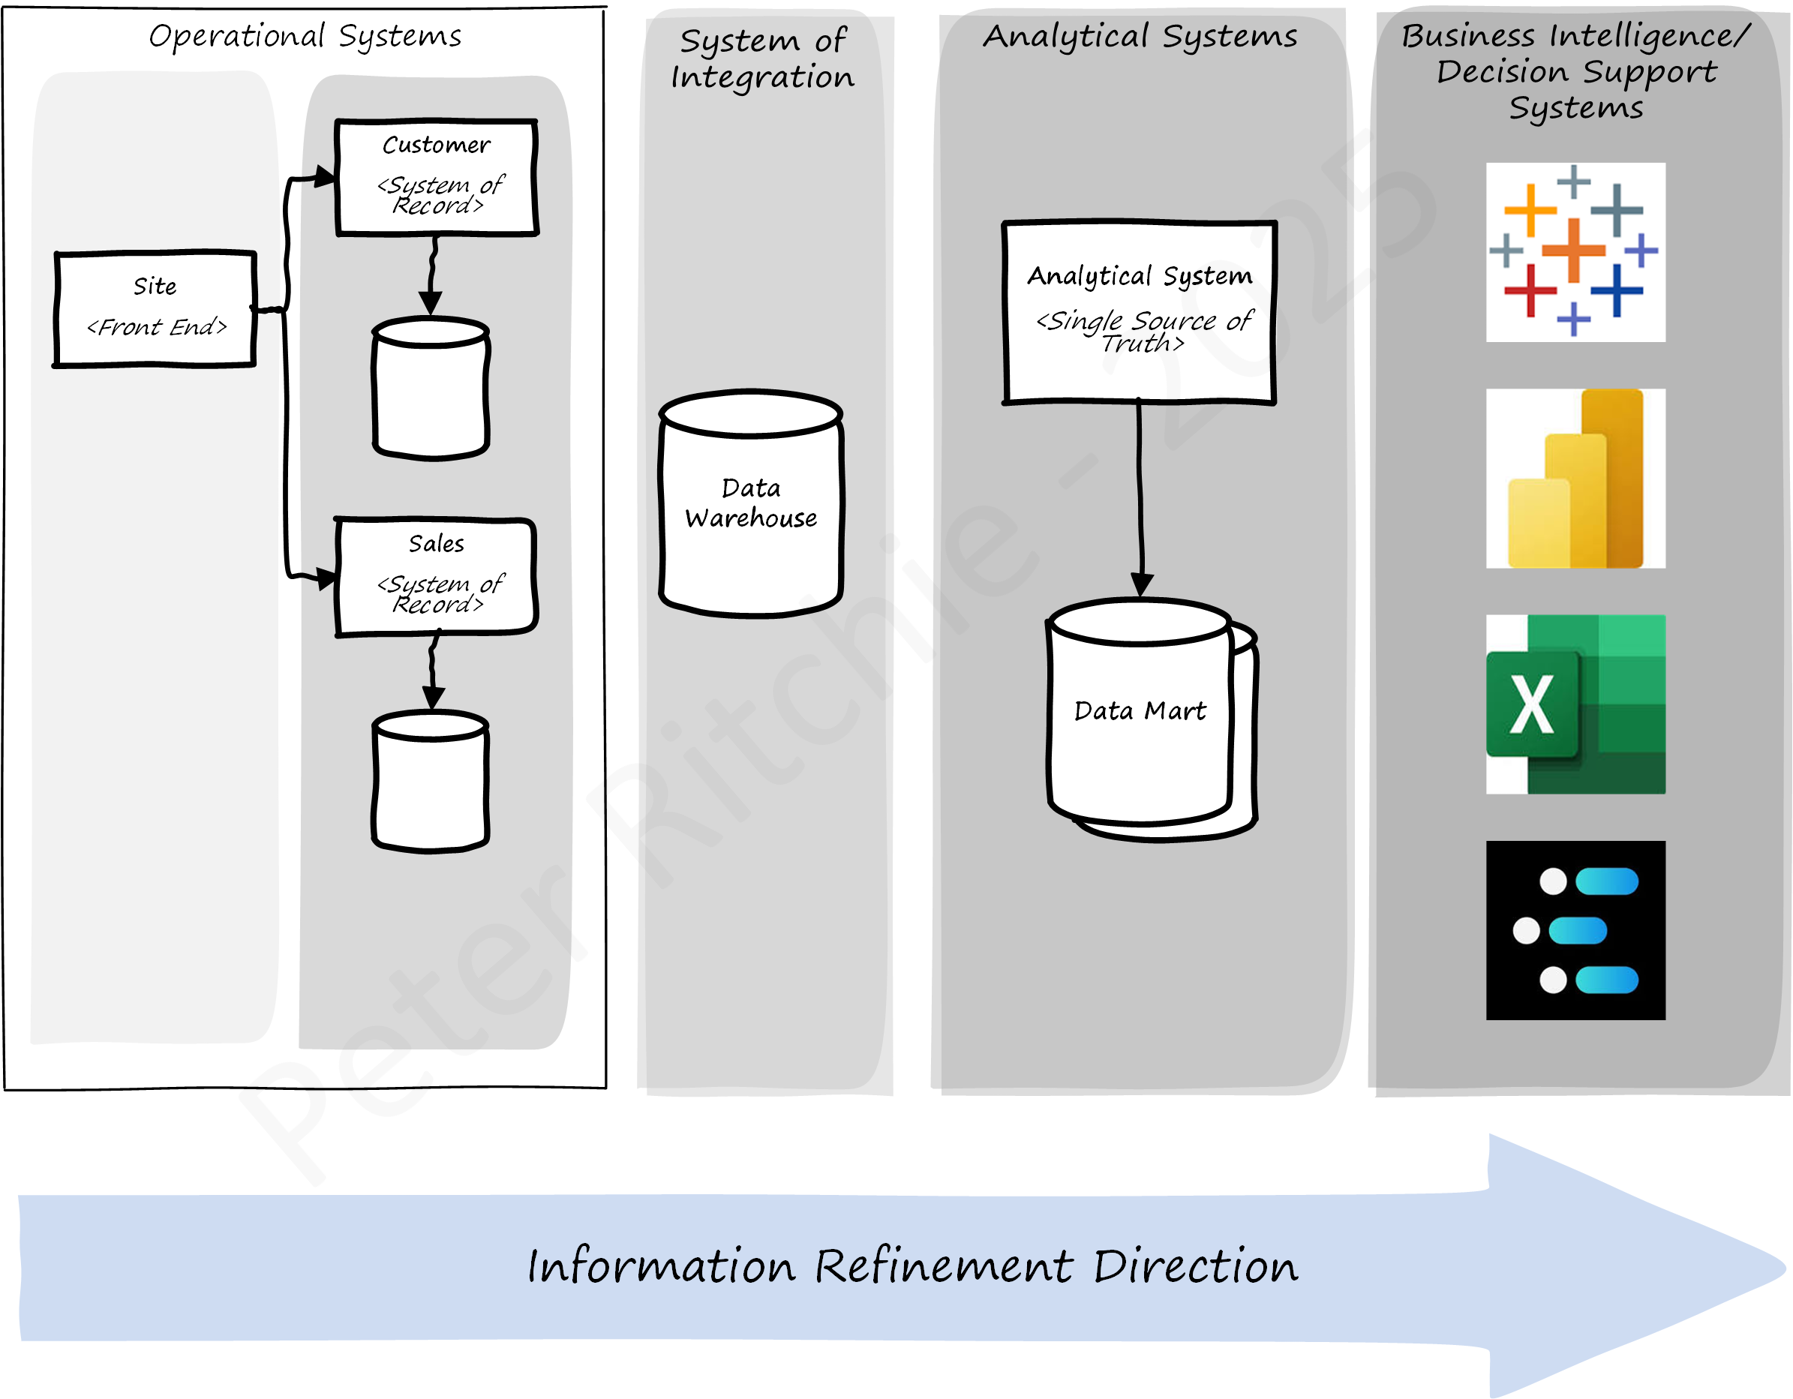
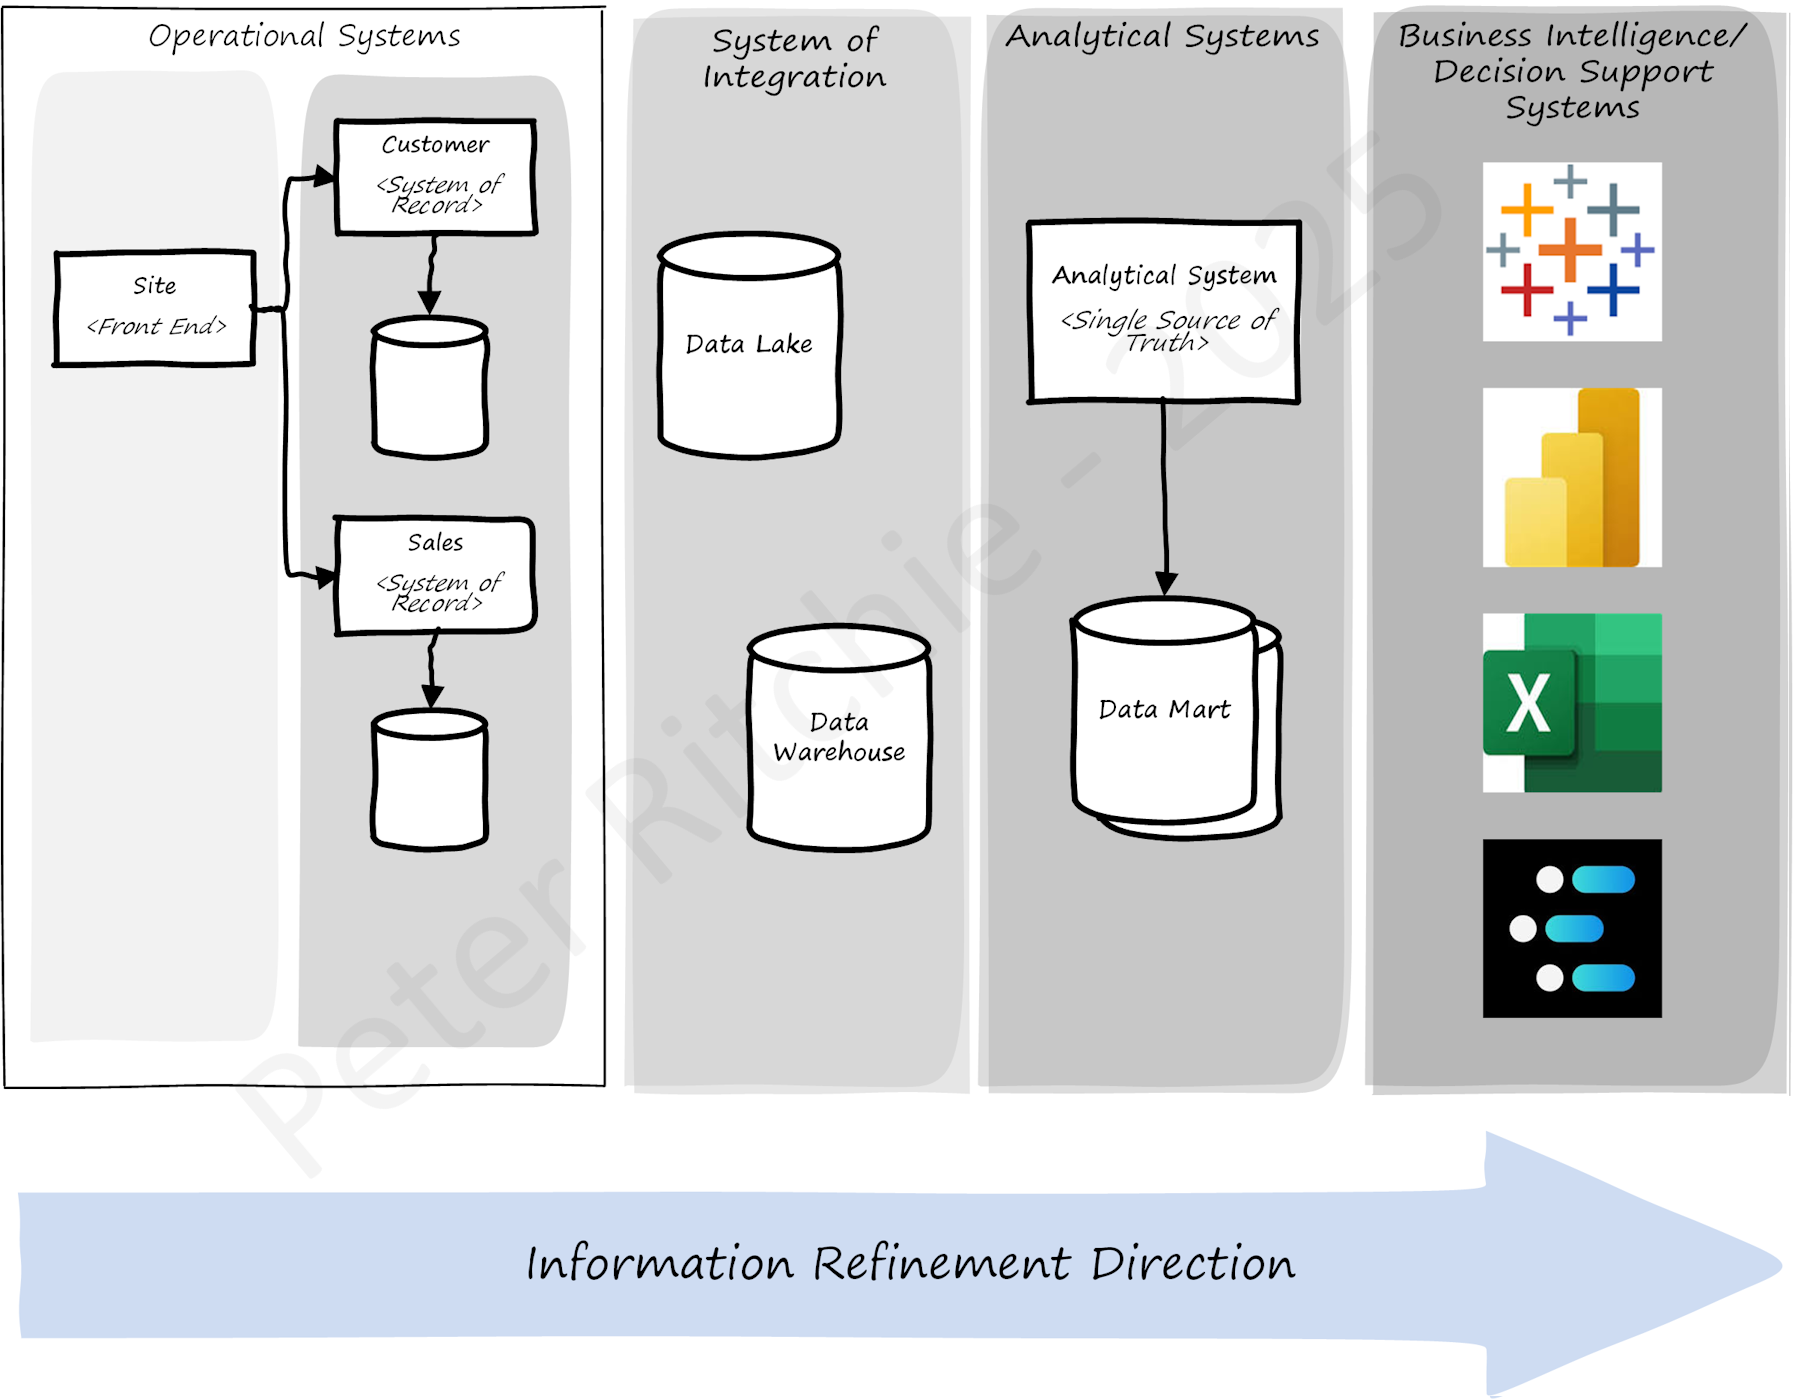
System of Record And Source of Single Truth Are Not The Same

diff --git a/input/posts/2025-09-09-system-of-record-and-source-of-truth-are-not-the-same.md b/input/posts/2025-09-09-system-of-record-and-source-of-truth-are-not-the-same.md
@@ -1,0 +1,44 @@
+---
+layout: post
+title: 'System of Record And Source of Single Truth Are Not The Same'
+categories: ['September 2025']
+comments: true
+excerpt: 'A System of Record is one of many operational systems that owns the transactions applied to a specific subset of business entity data. Single Source of Truth is an analytical system that aggregates operational and reference data from multiple sources for reporting and decision support.'
+tags: [''Software Architecture', 'Fundamentals', 'System of Record', 'Single Source of Truth']
+---
+
+I [recently blogged](/posts/architecture-fundamentals--system-of-record) about the importance of distinct and isolated subsystems where real-time data transactions that apply to a particular business data entity are processed, known as a System of Record. Someone referenced that post and incorrectly implied that I was suggesting a Single Source of Truth. I didn't delve deeper into Single Source of Truth in that post to keep it concise. Still, I was careful to suggest "how important it is to separate operational systems from analytical systems" and that analytical systems "must support multiple independent Systems of Record." And in fact, I diagrammed information refinement and how it progresses within enterprises. That diagram isolated Systems of Record from a Single Source of Truth and isolated Operational Systems from Analytical Systems. In this post, I want to detail how and why a **Single Source of Truth is different from Systems of Record**.
+
+<img src="/assets/sor-data-architecture.png" alt="Example data architecture that leverages Systems of Record." style="min-height: 10em; max-height: 75vmin; width: auto;">
+
+A System of Record is an operational system with a data store (an _operational data store_) that captures, validates, updates, and stores authoritative records focused _only on a specific type of business data entity_. **A System of Record is not used directly for reporting** or analytics. As an operational data store, it supports the execution of one part of day-to-day business processes involved in the production of goods or services within an enterprise. Operational systems are optimized to ensure specific **business operations execute in real-time as quickly and reliably as possible**. Additionally, as business records, information in a System of Record has applicable retention requirements. While Systems of Record may purge information for maintainability, often enterprises must retain information in such systems for regulatory and compliance purposes.
+
+Reflecting on the outcome of those operations is distinctly different from executing those operations: analyzing metrics and trends in the production of goods or services, and strategizing how to guide or improve active operations. **Analytics involves viewing the metadata about, the historic results of, and the context around operational business activities in multidimensional groups** to support decision-making about past business transactions. For example, in an e-commerce site, operational activities involve facilitating the purchase/sale of products. Analytics enables historical analysis of those sales across dimensions like time (months, quarters, etc.), demographics (region, customer segment, etc.), strategy (e.g., campaigns), etc. That is, a view of performance from the singular perspective of the entire enterprise, across different departments/verticals. The information retention constraints of the source system should not limit the extent to which historical analysis should go. This holistic view is the _truth_ that needs to be consistently available across the enterprise: _The Single Source of Truth_.
+
+> A Single Source of Truth is a single analytical view of an enterprise across different departments/verticals.
+
+Analytics isn't useful without the data a System of Record provides, but business records alone are not enough to make decisions across those dimensions. The information from business records needs to be aggregated and combined with information from other parts of the enterprise to produce those dimensions. The process of aggregating information from business records needs to occur independently of the operational system because not all the necessary information is at the individual business record level. e.g., campaign timeframes are overlaid over a range of transactions across multiple operational systems (information aggregated across operational systems). Remember that business operations must execute in real-time as quickly and reliably as possible, regardless of whether analytics data is being processed.
+
+> Impacting a sale today due to a query that aggregates data from last month does not make good business sense.
+
+To maintain the independence of all data sources, the processing involved in aggregating and populating analytical systems is kept as isolated as possible. **Data lakes and data warehouses separate a Single Source of Truth from source Systems of Record to achieve this isolation.**. Data lakes are updated with operational data only as needed. Extract, Transform, and Load (ETL) processes consume data from data lakes and other sources to update data warehouses that ultimately populate the analytical systems. This type of information refinement pipeline minimizes the impact on operational systems.
+
+Systems of Record differ from a Single Source of Truth in the same ways operational data differs from analytical data:
+
+| Attribute | Operational Data | Analytical Data |
+| :--- | :--- | :--- |
+| Goal | Daily efficiency and immediate actions. | Long-term strategy and decision-making. |
+| Data | Real-time, transactional. | Historical, aggregated. |
+| Performance | Write-intensive, speed-focused. | Read-intensive, query-focused. |
+| Audience | Customers, front-line staff. | Data analysts, business strategists. |
+
+I have found that "Single Source of Truth" is used to refer to any data source. Sometimes "Source of Truth" is used interchangeably. This is unfortunate because it leads to confusion, ultimately resulting in poor architectures.
+
+Personally, I purposefully avoid using the phrase "Source of Truth" to avoid confusion with "Single Source of Truth" and refer to "Single Source of Truth" only as an isolated analytical system separate from "Systems of Record."
+
+> **If you find this useful**  
+> I'm a freelance software architect. If you find this post useful and think I can provide value to your team, please reach out to see how I can help. See [About](/about) for information about the services I provide.
+<!-- Calendly inline widget begin -->
+<div class="calendly-inline-widget" data-url="https://calendly.com/peterritchie/client-meet-greet-zoom" style="min-width:320px;height:700px;"></div>
+<script type="text/javascript" src="https://assets.calendly.com/assets/external/widget.js" async></script>
+<!-- Calendly inline widget end -->
